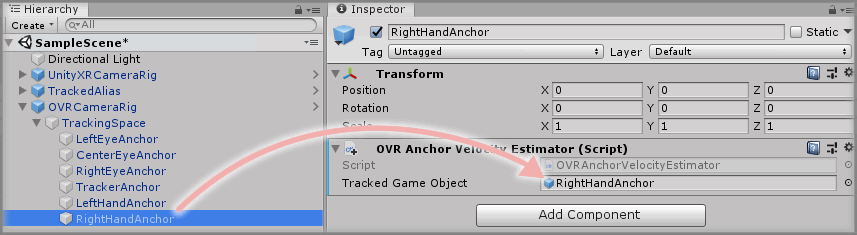
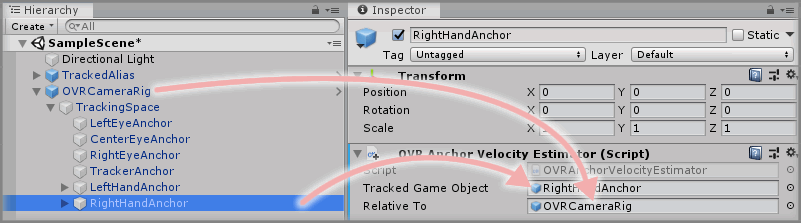
fix(Tutorials): account for offsets when reporting velocities
The velocity and angular velocity both require offsetting against
existing GameObject rotations to ensure they report the correct
velocity.

This fix showcases the fix as part of the tutorial to provide an
extra lesson, whilst the commits on the actual tutorial repo are
later on as they are fixes to a previous issue.

diff --git a/Documentation/Tutorials/WorkingWith3rdPartySDKs/UsingOculusIntegration/CreatingAnOVRVelocityTracker/README.md b/Documentation/Tutorials/WorkingWith3rdPartySDKs/UsingOculusIntegration/CreatingAnOVRVelocityTracker/README.md
@@ -301,6 +301,37 @@ Our component will now be able to report velocities for the headset anchor along
 
 > [see commit #f91057c](https://github.com/ExtendRealityLtd/VRTK.Tutorials.OculusIntegration/commit/f91057cfb7b9bb232ec3287d333763de99f411f7)
 
+The code so far will work as long as the PlayArea (the OVRCameraRig) isn't rotated, but as soon as it is rotated then the velocity that is being reported will not take this rotation offset into consideration. We can inject a copy of the PlayArea GameObject as something that our tracked velocity is relative to.
+
+First thing to do is add a new parameter that will let us inject a relative GameObject:
+
+```
+[Tooltip("An optional object to consider the source relative to when retrieving velocities.")]
+public GameObject relativeTo;
+```
+
+Now we can use this injected GameObject in our velocity reporting calculation by using its rotation value as an offset:
+
+```
+protected override Vector3 DoGetVelocity()
+{
+  switch (trackedGameObject.name)
+  {
+    case "CenterEyeAnchor":
+      return relativeTo.transform.rotation * (OVRManager.isHmdPresent ? OVRPlugin.GetNodeVelocity(OVRPlugin.Node.EyeCenter, OVRPlugin.Step.Render).FromFlippedZVector3f() : Vector3.zero);
+    case "LeftHandAnchor":
+      return relativeTo.transform.rotation * OVRInput.GetLocalControllerVelocity(OVRInput.Controller.LTouch);
+    case "RightHandAnchor":
+      return relativeTo.transform.rotation * OVRInput.GetLocalControllerVelocity(OVRInput.Controller.RTouch);
+  }
+  return Vector3.zero;
+}
+```
+
+Our velocity calculation will now take the relative GameObject that is injected (the OVRCameraRig) and use its rotation as an offset.
+
+> [see commit #45e5c13](https://github.com/ExtendRealityLtd/VRTK.Tutorials.OculusIntegration/commit/45e5c13b12cedc67a1731f49bbb96ae83e0a488e)
+
 ### Step 8
 
 The angular velocities are also obtained in a very similar way as the SDK calls made to retrieve the velocity data also contain methods for receiving angular velocity data.
@@ -324,6 +355,28 @@ protected override Vector3 DoGetAngularVelocity()
 ```
 
 > [see commit #cab5f94](https://github.com/ExtendRealityLtd/VRTK.Tutorials.OculusIntegration/commit/cab5f94abd671797672679bdc4e1483b6f96c069)
+
+Again, our angular velocity will report correctly as long as there is no rotation applied to the actual tracked object, as soon as there is a rotation applied then the angular velocity will be calculated incorrectly. This is simply solved by using the `trackedGameObject` rotation value to offset the reported angular velocity:
+
+```
+protected override Vector3 DoGetAngularVelocity()
+{
+  switch (trackedGameObject.name)
+  {
+    case "CenterEyeAnchor":
+      return trackedGameObject.transform.rotation * (OVRManager.isHmdPresent ? OVRPlugin.GetNodeAngularVelocity(OVRPlugin.Node.EyeCenter, OVRPlugin.Step.Render).FromFlippedZVector3f() : Vector3.zero);
+    case "LeftHandAnchor":
+      return trackedGameObject.transform.rotation * OVRInput.GetLocalControllerAngularVelocity(OVRInput.Controller.LTouch);
+    case "RightHandAnchor":
+      return trackedGameObject.transform.rotation * OVRInput.GetLocalControllerAngularVelocity(OVRInput.Controller.RTouch);
+   }
+   return Vector3.zero;
+}
+```
+
+Now the reported angular velocity will take any rotation of the tracked GameObject into account and will report the correct angular velocity.
+
+> [see commit #135e801](https://github.com/ExtendRealityLtd/VRTK.Tutorials.OculusIntegration/commit/135e8017e82ca20d0a8b3edf712faed39b255c0f)
 
 ### Step 9
 
@@ -352,13 +405,13 @@ Let's start with the `OVRCameraRig -> TrackingSpace -> CenterEyeAnchor` to set u
 
 Select the `OVRCameraRig -> TrackingSpace -> CenterEyeAnchor` GameObject in the Unity Hierarchy and click the `Add Component` button in the Unity Inspector and select `OVRAnchorVelocityEstimator` to add that component to the GameObject.
 
-Then drag and drop the `CenterEyeAnchor` GameObject into the `Tracked Game Object` parameter on the `OVRAnchorVelocityEstimator` component.
+Drag and drop the `CenterEyeAnchor` GameObject into the `Tracked Game Object` parameter on the `OVRAnchorVelocityEstimator` component then drag and drop the `OVRCameraRig` GameObject into the `Relative To` parameter on the `OVRAnchorVelocityEstimator` component.
 
 ![Drag And Drop CenterEyeAnchor To Tracked GameObject Parameter](assets/images/DragAndDropCenterEyeAnchorToTrackedGameObjectParameter.png)
 
 ### Step 11
 
-Let's do the same with the `LeftHandAnchor` and the `RightHandAnchor` GameObjects so they both have a copy of the `OVRAnchorVelocityEstimator` component with their `Tracked Game Object` parameter references set.
+Let's do the same with the `LeftHandAnchor` and the `RightHandAnchor` GameObjects so they both have a copy of the `OVRAnchorVelocityEstimator` component with their `Tracked Game Object` and `Relative To` parameter references set.
 
 * Left Controller
 
